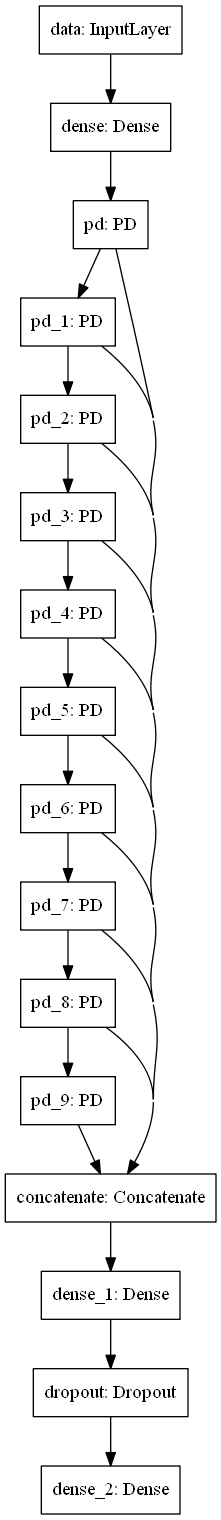
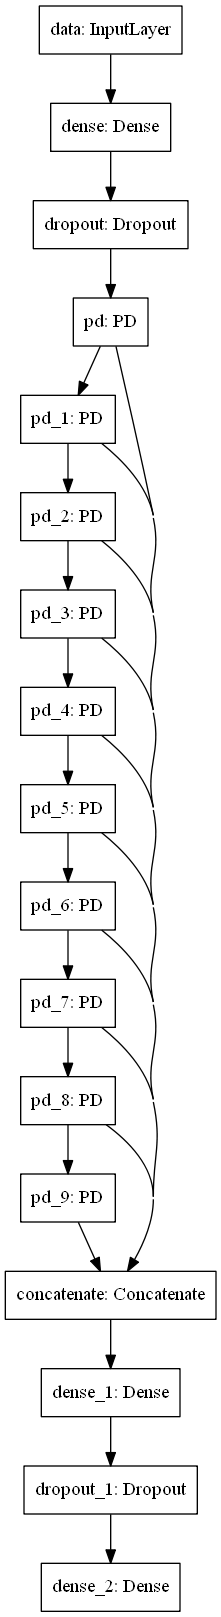
pd tests

diff --git a/code/networks/mlp_vd.py b/code/networks/mlp_vd.py
@@ -465,30 +465,54 @@ def create_model(
     
     y = []
     x = Dense(300, activation='relu')(xin)
+    x = Dropout(.2)(x)
     for i in range(num_labels):              
       x = PD(initial_values[i], 300,activation=tf.nn.relu)(x)          
+      
       y.append(x)
     
     x = Concatenate()(y)
     x = Dense(300, activation='relu')(x)
-    x = Dropout(.2)(x)
+    x = Dropout(.4)(x)
     xout = Dense(10)(x)
     model = Model(xin, xout, name = _md.model_name)
     return model
 
-  elif model_type == 'classpd_nopd':
+  elif model_type == 'classpd_floor':
     print('Building Class Probability Dropout MLP Model')
     xin = keras.layers.Input(shape = (x_train.shape[-1],), name='data')     
     
     y = []
-    x = Dense(1000, activation='relu')(xin)
+    x = Dense(300, activation='relu')(xin)
+    x = Floor(.01)(x)
+    for i in range(num_labels):              
+      x = PD(initial_values[i], 300,activation=tf.nn.relu)(x)          
+      x = Dense(300, activation='relu')(x)       
+      x = Floor(.3)(x)
+      y.append(x)
+    
+    x = Concatenate()(y)
+    x = Dense(300, activation='relu')(x)
+    x = Floor(.3)(x)
+    xout = Dense(10)(x)
+    model = Model(xin, xout, name = _md.model_name)
+    return model
+
+
+  elif model_type == 'class_ref':
+    print('Building Class Probability Dropout MLP Model')
+    xin = keras.layers.Input(shape = (x_train.shape[-1],), name='data')     
+    
+    y = []
+    x = Dense(300, activation='relu')(xin)
+    x = Dropout(.2)(x)
     for i in range(num_labels):              
       x = Dense(300, activation='relu')(x)  
       y.append(x)
     
     x = Concatenate()(y)
     x = Dense(300, activation='relu')(x)
-    x = Dropout(.2)(x)
+    x = Dropout(.4)(x)
     xout = Dense(10)(x)
     model = Model(xin, xout, name = _md.model_name)
     return model
@@ -723,7 +747,7 @@ BATCH_SIZE = 128
 VAE_EPOCHS = 20
 CUSTOM_TRAIN = False
 BUILD_VAE = False
-dataset = 'cifar10'
+dataset = 'fashion_mnist'
 layer_losses = True
 
 ##########################################################################
@@ -751,7 +775,7 @@ class VaeSettings(object):
 _vae = VaeSettings()  
 
 class ModelSettings(object):
-  model_type = 'classpd'
+  model_type = 'classpd_floor'
   zero_point = .4
   dropout_rate = .4
 
